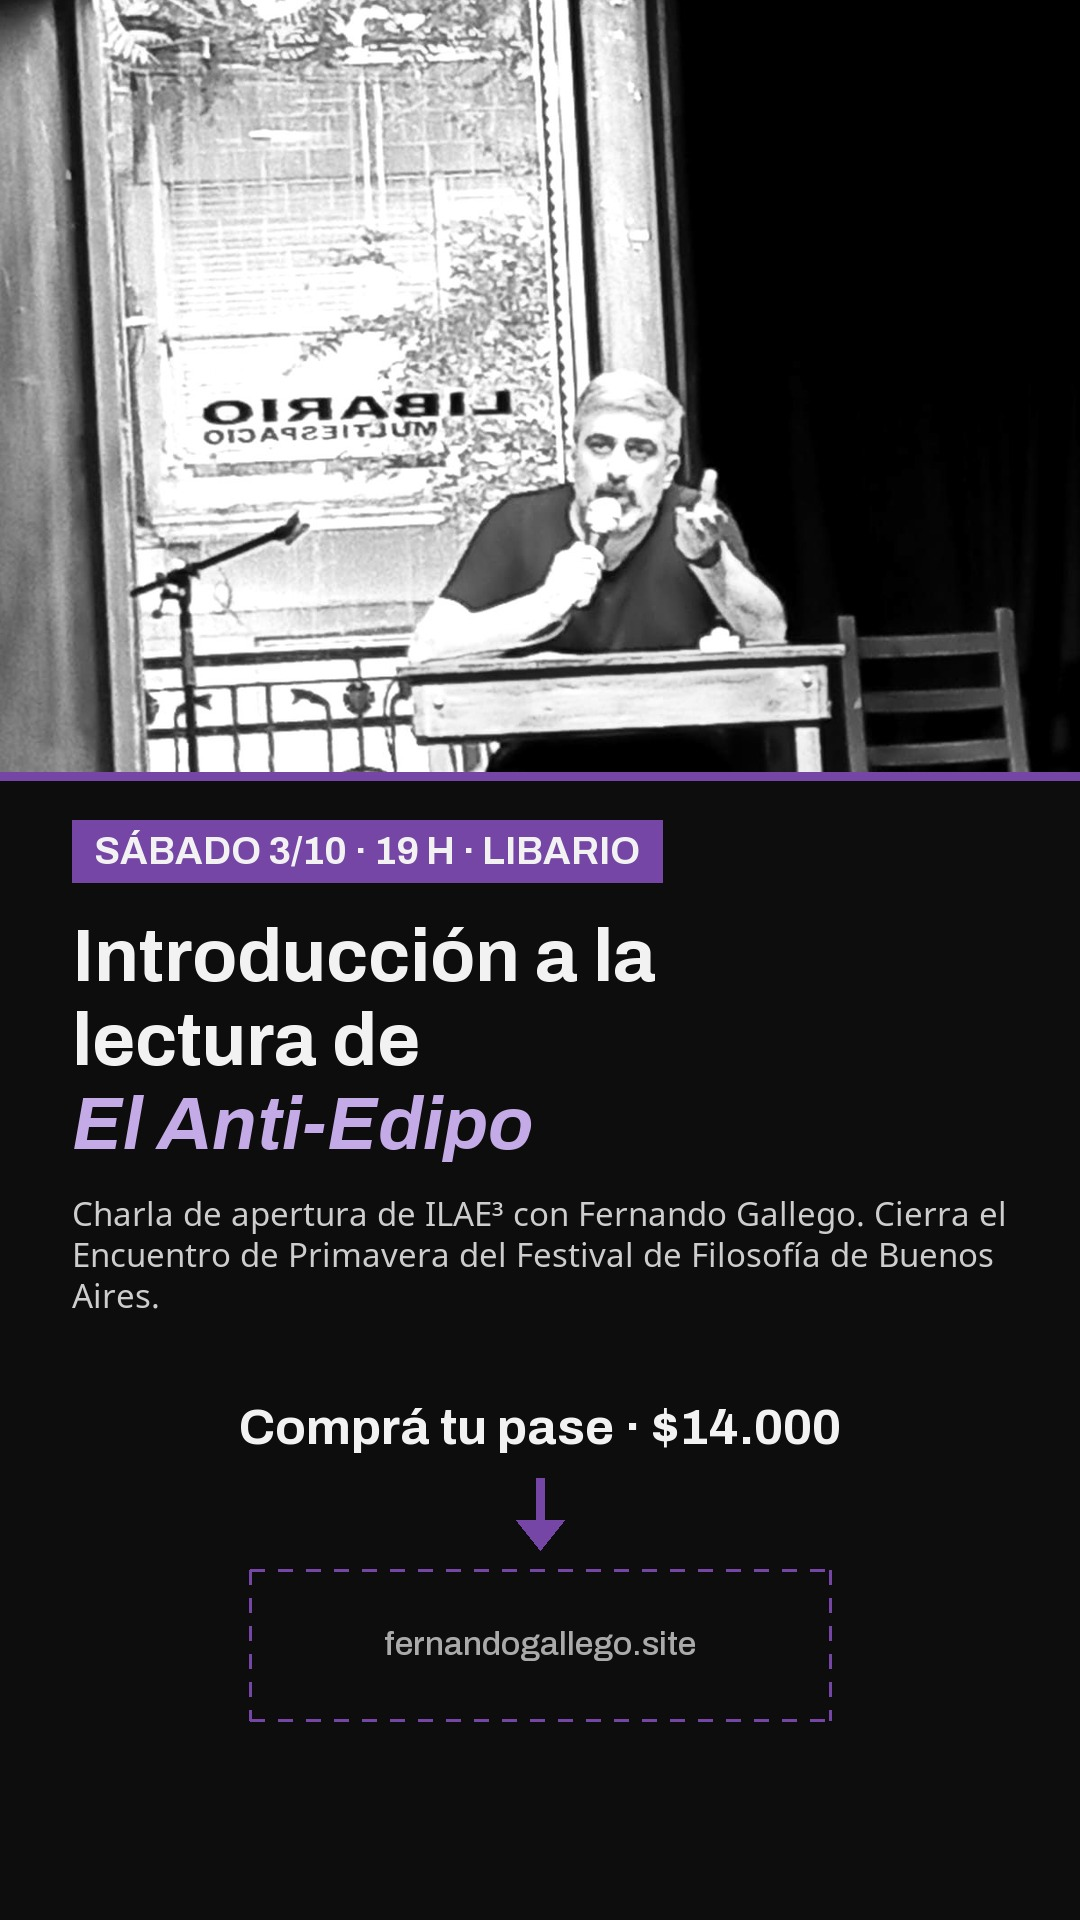
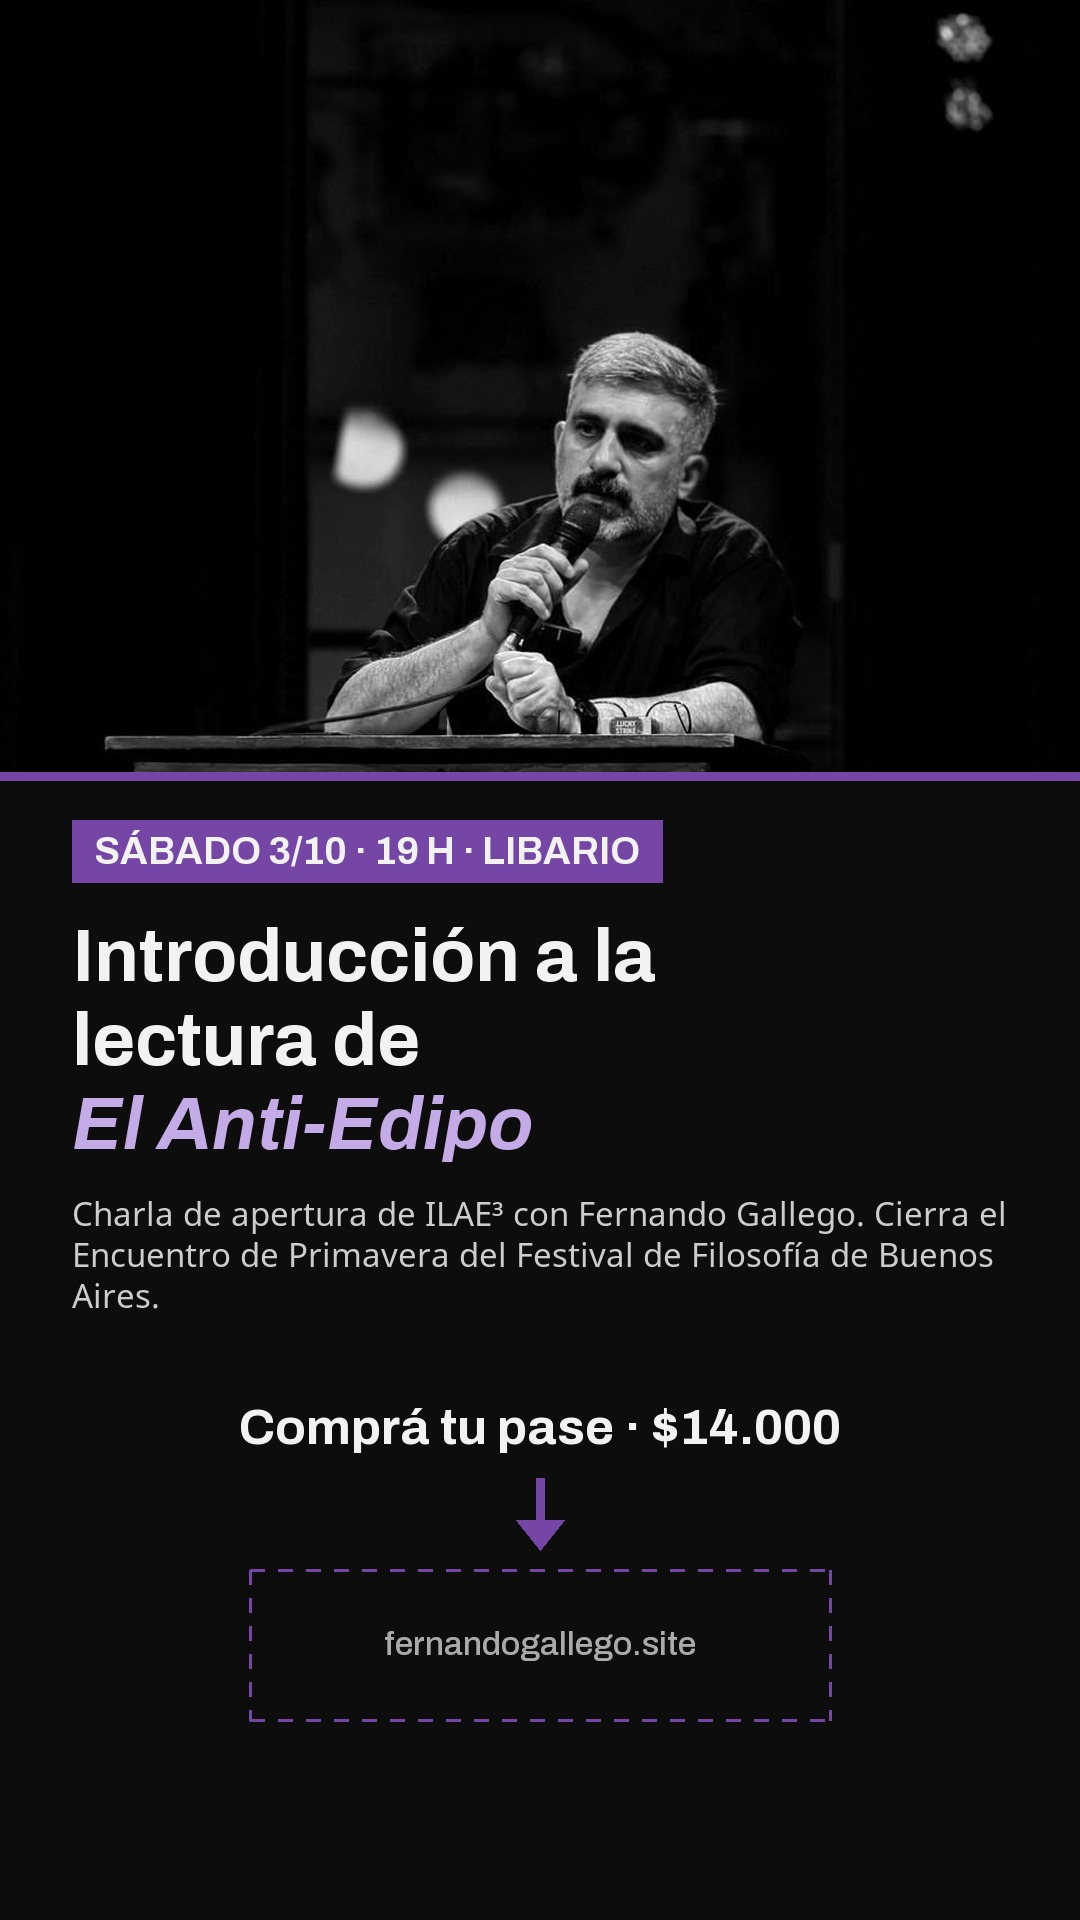
Reemplazo de la foto del cartel de Libario en todo el sitio y las piezas
La foto principal pasa a ser la elegida; se suman un primer plano y una
foto con público para no repetir imagen entre la galería y las historias.

Changed region(s): [[0.0, 0.0, 0.9778, 0.4062], [0.8556, 0.0, 0.9167, 0.0938]]

diff --git a/index.html b/index.html
@@ -110,8 +110,8 @@
         </div>
         <div class="hero__foto">
           <picture>
-            <source srcset="assets/img/libario-charla.webp" type="image/webp">
-            <img src="assets/img/libario-charla.jpg" alt="Fernando Gallego dando una charla en el escenario de Libario" width="1200" height="1600" fetchpriority="high">
+            <source srcset="assets/img/libario-azul.webp" type="image/webp">
+            <img src="assets/img/libario-azul.jpg" alt="Fernando Gallego dando una charla en el escenario de Libario" width="960" height="1280" fetchpriority="high">
           </picture>
         </div>
       </div>
@@ -241,7 +241,7 @@
         </table>
         <div class="galeria">
           <picture><source srcset="assets/img/libario-escenario.webp" type="image/webp"><img src="assets/img/libario-escenario.jpg" alt="Fernando Gallego en el escenario de Libario" width="960" height="1280" loading="lazy"></picture>
-          <picture><source srcset="assets/img/libario-azul.webp" type="image/webp"><img src="assets/img/libario-azul.jpg" alt="Charla en Libario con público" width="960" height="1280" loading="lazy"></picture>
+          <picture><source srcset="assets/img/libario-publico.webp" type="image/webp"><img src="assets/img/libario-publico.jpg" alt="Charla en Libario vista desde el público" width="960" height="1280" loading="lazy"></picture>
           <picture><source srcset="assets/img/libario-gesto.webp" type="image/webp"><img src="assets/img/libario-gesto.jpg" alt="Fernando Gallego exponiendo con micrófono" width="960" height="1280" loading="lazy"></picture>
           <picture><source srcset="assets/img/libario-lectura.webp" type="image/webp"><img src="assets/img/libario-lectura.jpg" alt="Fernando Gallego leyendo sus notas" width="960" height="1280" loading="lazy"></picture>
         </div>
